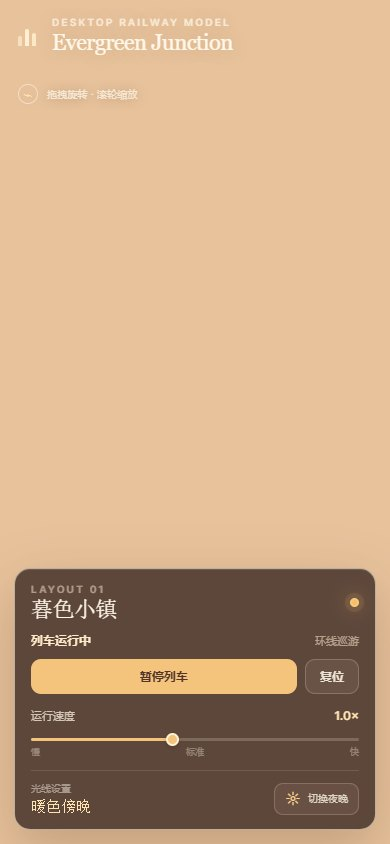
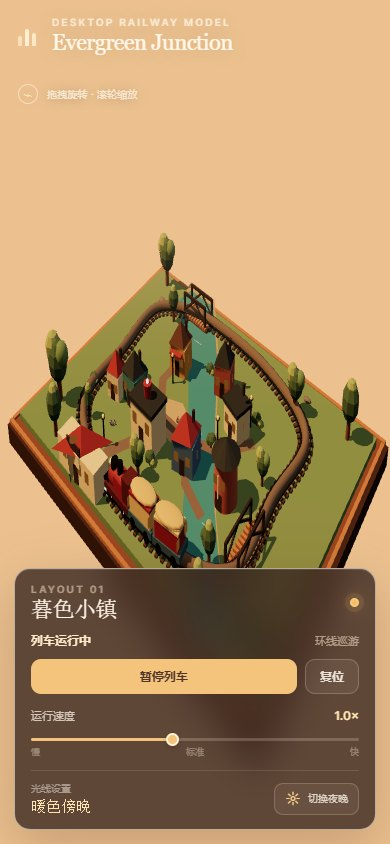
Fix the Luna railway result

Changed region(s): [[0.0, 0.2773, 1.0, 0.8626]]

diff --git a/results/miniature-railway-town/gpt-5.6-luna-max/src/main.js b/results/miniature-railway-town/gpt-5.6-luna-max/src/main.js
@@ -15,12 +15,12 @@ const statusDetail = document.querySelector('#status-detail');
 const statusDot = document.querySelector('#status-dot');
 
 const scene = new THREE.Scene();
-const camera = new THREE.PerspectiveCamera(39, 1, 0.1, 100);
+const camera = new THREE.PerspectiveCamera(42, 1, 0.1, 100);
 const renderer = new THREE.WebGLRenderer({ antialias: true, alpha: false });
 const controls = new OrbitControls(camera, renderer.domElement);
 const clock = new THREE.Clock();
 
-const initialCameraPosition = new THREE.Vector3(16.8, 17.6, 20.2);
+const initialCameraPosition = new THREE.Vector3(21.5, 22.5, 25.8);
 const initialTarget = new THREE.Vector3(0, 1.4, 0);
 const worldUp = new THREE.Vector3(0, 1, 0);
 const forwardAxis = new THREE.Vector3(0, 0, 1);
@@ -71,7 +71,7 @@ container.appendChild(renderer.domElement);
 controls.enableDamping = true;
 controls.dampingFactor = 0.065;
 controls.minDistance = 13;
-controls.maxDistance = 34;
+controls.maxDistance = 48;
 controls.minPolarAngle = 0.38;
 controls.maxPolarAngle = Math.PI / 2.08;
 controls.target.copy(initialTarget);
@@ -81,6 +81,9 @@ controls.update();
 const materials = {
   baseWood: new THREE.MeshStandardMaterial({ color: colors.woodDark, roughness: 0.78 }),
   baseEdge: new THREE.MeshStandardMaterial({ color: colors.wood, roughness: 0.7 }),
+  wood: new THREE.MeshStandardMaterial({ color: colors.wood, roughness: 0.88 }),
+  woodDark: new THREE.MeshStandardMaterial({ color: colors.woodDark, roughness: 0.9 }),
+  woodLight: new THREE.MeshStandardMaterial({ color: colors.woodLight, roughness: 0.86 }),
   grass: new THREE.MeshStandardMaterial({ color: colors.grass, roughness: 1 }),
   grassLight: new THREE.MeshStandardMaterial({ color: colors.grassLight, roughness: 1, flatShading: true }),
   grassDark: new THREE.MeshStandardMaterial({ color: colors.grassDark, roughness: 1, flatShading: true }),
@@ -104,6 +107,7 @@ const materials = {
   bridgeDark: new THREE.MeshStandardMaterial({ color: 0x3d2e29, roughness: 0.9 }),
   stone: new THREE.MeshStandardMaterial({ color: 0x83796e, roughness: 1, flatShading: true }),
   white: new THREE.MeshStandardMaterial({ color: colors.paper, roughness: 0.82 }),
+  cream: new THREE.MeshStandardMaterial({ color: colors.cream, roughness: 0.84 }),
   wallCream: new THREE.MeshStandardMaterial({ color: colors.cream, roughness: 0.9 }),
   wallBrick: new THREE.MeshStandardMaterial({ color: colors.brick, roughness: 0.9 }),
   wallTeal: new THREE.MeshStandardMaterial({ color: colors.teal, roughness: 0.87 }),
@@ -161,7 +165,7 @@ moon.position.set(-7, 14, -12);
 scene.add(moon);
 
 scene.background = new THREE.Color(0xecc18f);
-scene.fog = new THREE.Fog(0xecc18f, 30, 47);
+scene.fog = new THREE.Fog(0xecc18f, 40, 78);
 
 function setShadow(mesh, cast = true, receive = true) {
   mesh.castShadow = cast;
@@ -319,8 +323,8 @@ const riverBankPoints = riverPoints.map(([x, z], index) => {
   const scale = index < 6 ? 1.08 : 0.93;
   return [x * scale, z * scale];
 });
-groundPolygon(riverBankPoints, 1.205, new THREE.MeshStandardMaterial({ color: 0xb89a6d, roughness: 1 }));
-const river = groundPolygon(riverPoints, 1.225, materials.water);
+groundPolygon(riverBankPoints, 1.278, new THREE.MeshStandardMaterial({ color: 0xb89a6d, roughness: 1 }));
+const river = groundPolygon(riverPoints, 1.286, materials.water);
 river.renderOrder = 2;
 
 const rippleMaterial = new THREE.MeshBasicMaterial({ color: 0xc4e1cf, transparent: true, opacity: 0.48 });
@@ -330,7 +334,7 @@ const rippleMaterial = new THREE.MeshBasicMaterial({ color: 0xc4e1cf, transparen
   [[4.45, 4.12], 0.72, 0.18],
   [[7.05, 6.94], 0.58, -0.12],
 ].forEach(([[x, z], length, rotation]) => {
-  const ripple = addBox(scene, [length, 0.012, 0.045], [x, 1.238, z], rippleMaterial, { cast: false, receive: false });
+  const ripple = addBox(scene, [length, 0.012, 0.045], [x, 1.302, z], rippleMaterial, { cast: false, receive: false });
   ripple.rotation.y = rotation;
 });
 
@@ -341,7 +345,7 @@ groundPolygon([
   [0.0, 0.25],
   [-0.6, 2.1],
   [-2.75, 2.0],
-], 1.242, materials.roadEdge);
+], 1.292, materials.roadEdge);
 
 function road(points, width = 0.75) {
   const left = [];
@@ -355,7 +359,7 @@ function road(points, width = 0.75) {
     left.push([current.x + normal.x, current.y + normal.y]);
     right.unshift([current.x - normal.x, current.y - normal.y]);
   });
-  groundPolygon([...left, ...right], 1.25, materials.road);
+  groundPolygon([...left, ...right], 1.3, materials.road);
 }
 
 road([[-4.1, 7.45], [-3.85, 5.5], [-2.8, 3.6], [-2.45, 1.25]], 0.72);
